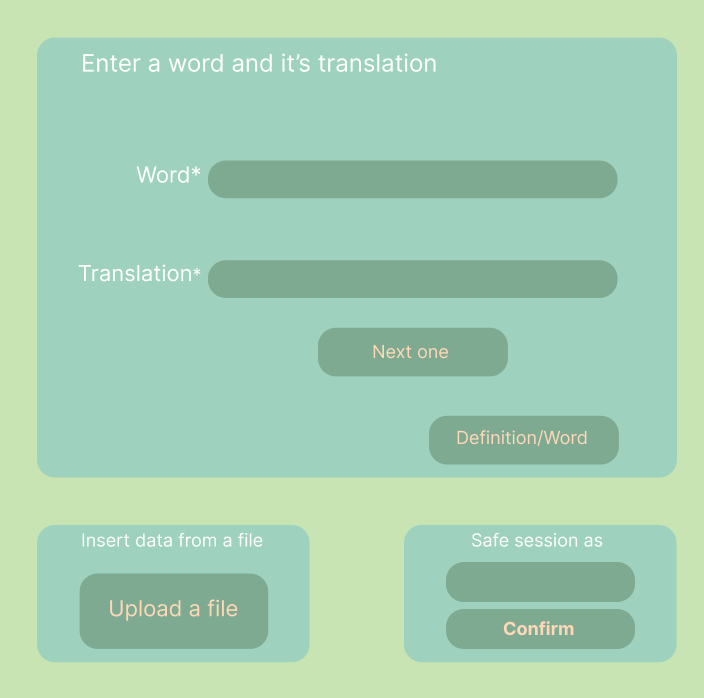
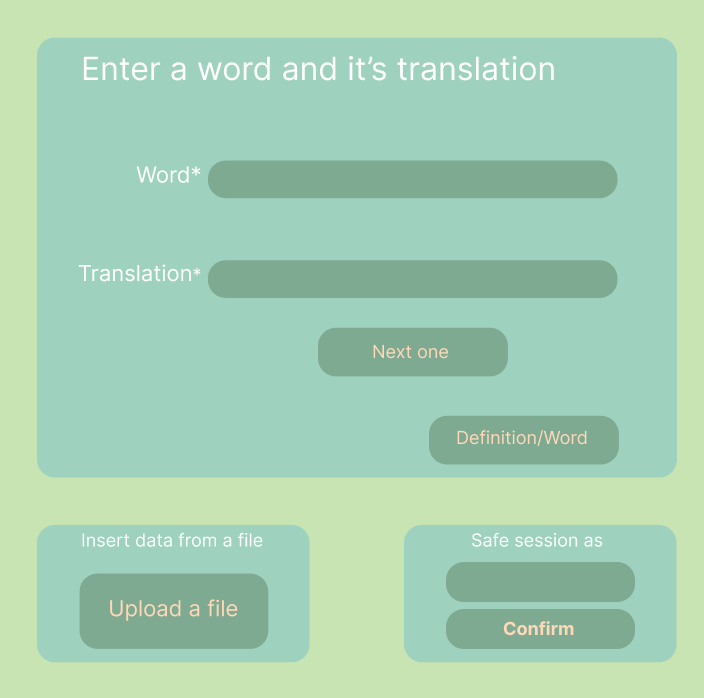
added ui for expression panel

Changed region(s): [[0.0938, 0.0602, 0.8125, 0.1203]]

diff --git a/app/main.py b/app/main.py
@@ -294,6 +294,46 @@ class ExpressionSection(tk.Frame):
         self.background.place(relwidth=1, relheight=1)
         #self.pack(side="left")
 
+        self.next_one_button_bg = PhotoImage(file=
+                                             "./components/graphical_components/material_panel/next_one_button.png")
+        self.switch_button_bg = PhotoImage(file="./components/graphical_components/material_panel/switch_button.png")
+        self.file_upload_bg = PhotoImage(file="./components/graphical_components/material_panel/file_upload.png")
+        self.blank_button_bg = PhotoImage(file="./components/graphical_components/material_panel/blank_button.png")
+        self.confirm_button_bg = PhotoImage(file="./components/graphical_components/material_panel/confirm_button.png")
+
+        self.word_entry = tk.Entry(self, width=32, background="#7eaa92", fg="white", bd=0, justify="center",
+                                   font=("Arial", 16))
+        self.word_entry.place(x=210, y=164)
+
+        self.translation_entry = tk.Entry(self, width=32, background="#7eaa92", fg="white", bd=0, justify="center",
+                                          font=("Arial", 16))
+        self.translation_entry.place(x=210, y=264)
+
+        self.next_one = tk.Button(self, command=self.switch_panel_frame, image=self.next_one_button_bg, bd=0,
+                                  background='#9ed2be', highlightthickness=0)
+        self.next_one.place(x=314, y=328)
+
+        self.switch_button = tk.Button(self, command=lambda: master.show_frame("word_frame"),
+                                       image=self.switch_button_bg, bd=0, background='#9ed2be', highlightthickness=0)
+        self.switch_button.place(x=425, y=416)
+
+        self.upload_button = tk.Button(self, command=self.switch_panel_frame,
+                                       image=self.file_upload_bg, bd=0, background='#9ed2be', highlightthickness=0)
+        self.upload_button.place(x=75, y=573)
+
+        self.safe_as_label = tk.Entry(self, width=19, background="#7eaa92", fg="white", bd=0, justify="center",
+                                      font=("Arial", 12))
+        self.safe_as_label.place(x=448, y=569)
+        self.safe_as_label.configure(takefocus=False)
+
+        self.safe_as_button = tk.Button(self, command=self.switch_panel_frame,
+                                        image=self.confirm_button_bg, bd=0, background='#9ed2be', highlightthickness=0)
+        self.safe_as_button.place(x=442, y=609)
+
+    def switch_panel_frame(self):
+        pass
+
+
 
 
 
